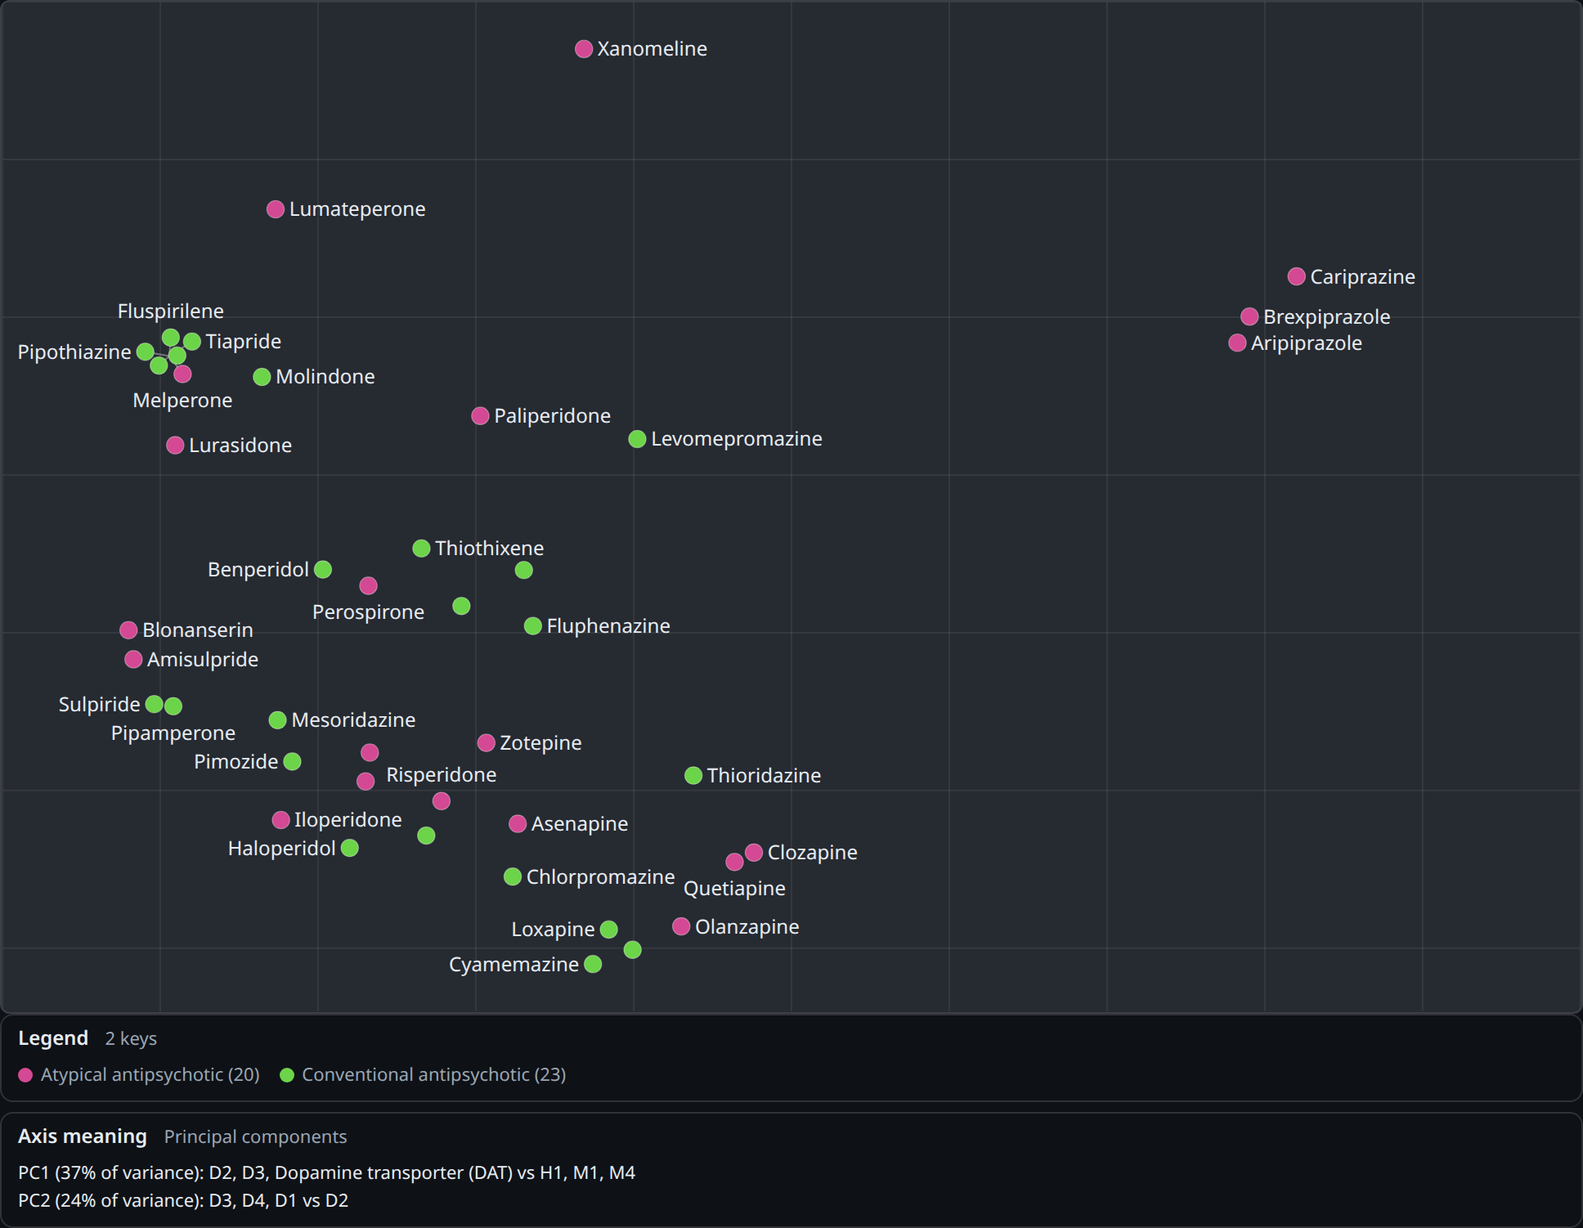
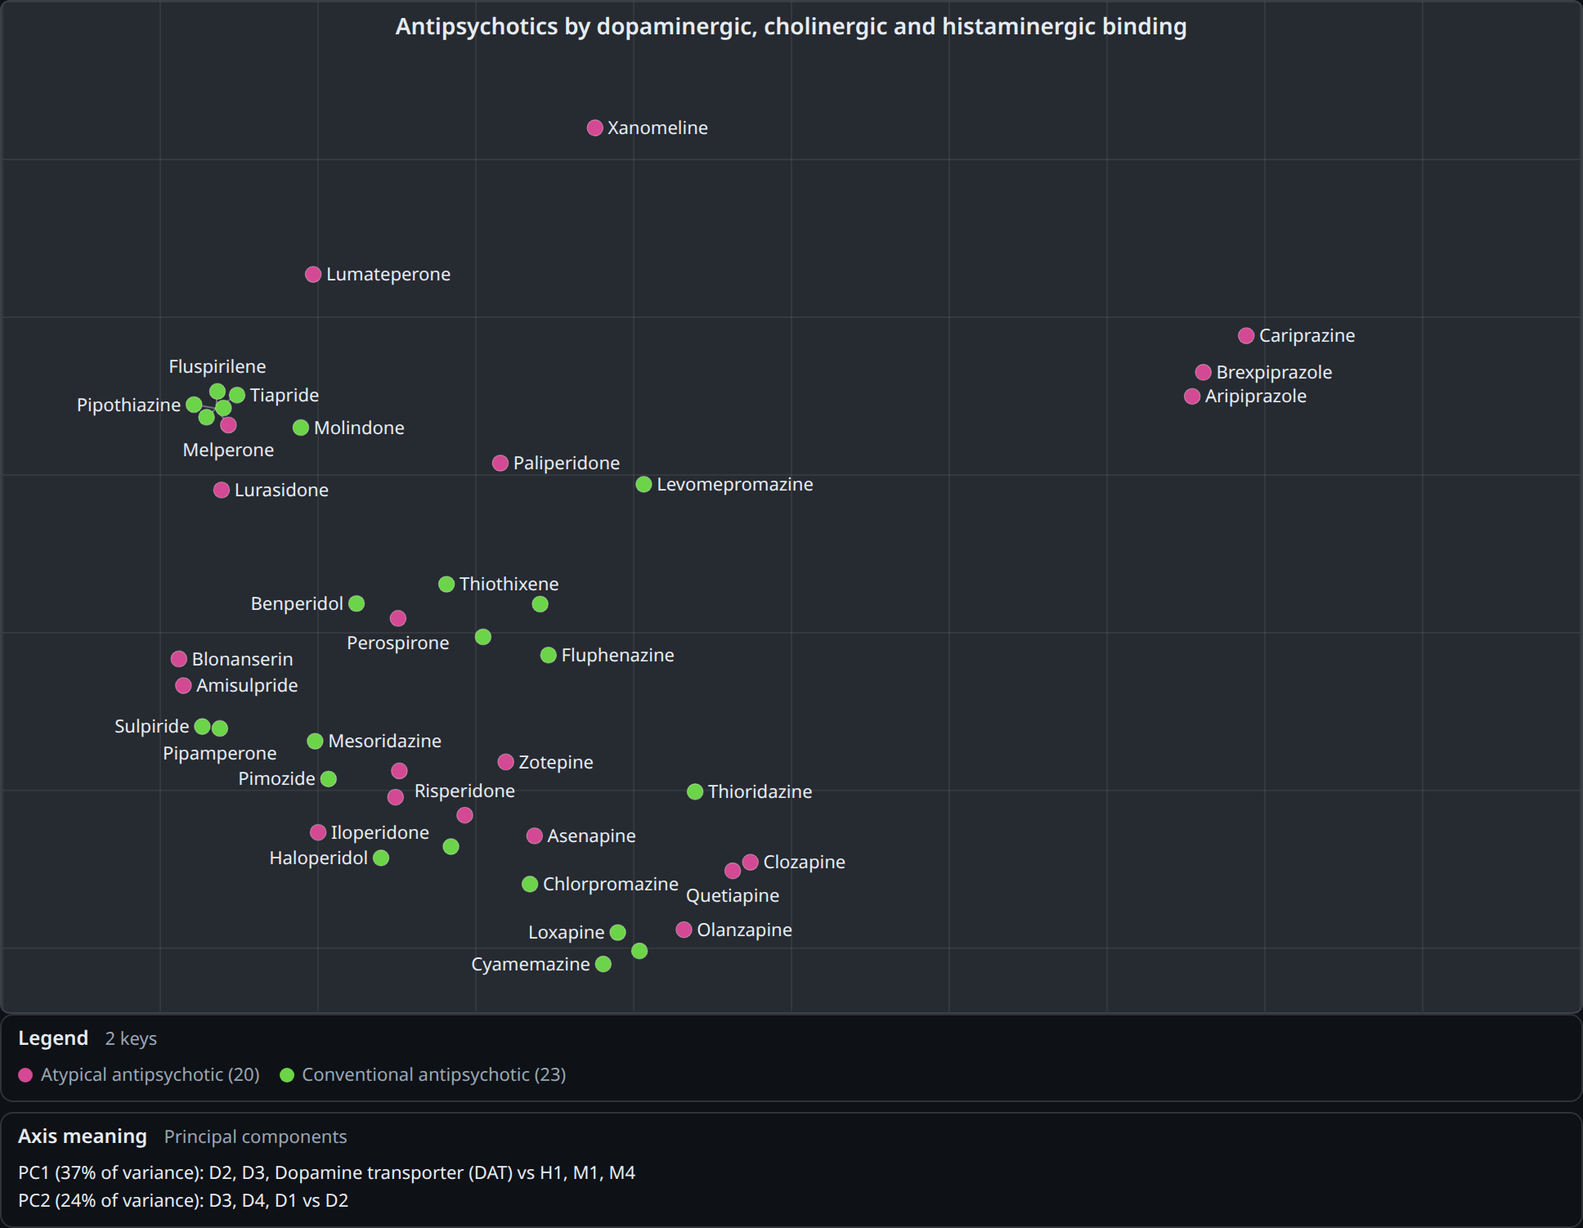
feat(drugs-map): a plot title derived from the view, the fit leaves room for it

diff --git a/public/js/drug-map/title.js b/public/js/drug-map/title.js
@@ -1,0 +1,86 @@
+// The drug map's plot title: one sentence saying what is on screen, derived from the
+// view (never authored per preset), e.g.
+//   {cats: {antipsychotic_atypical, antipsychotic_conventional}, only: [d1..d5, dat, h1],
+//    color: "nbn"}
+//   -> "Antipsychotics by dopaminergic and H1 binding, colored by nomenclature"
+// A class set that covers whole families is named by the family ("Antipsychotics"), a
+// target set that covers whole transmitter systems by the system ("dopaminergic"), so
+// the sentence stays short; past MAX_ITEMS it falls back to a count, still naming the
+// systems the targets belong to when those are few ("6 dopaminergic targets"). DOM-free (node
+// tests): the caller passes `t` and the groupings the controls already built.
+
+/** Past this many named classes / systems / targets, the title gives a count. */
+export const MAX_ITEMS = 5;
+
+// "Dopaminergic" -> "dopaminergic" mid-sentence, but "GABAergic" / "D2" stay as they are.
+const lowerFirst = (s) => (s.length > 1 && s[1] === s[1].toLowerCase() && s[1] !== s[1].toUpperCase()
+  ? s[0].toLowerCase() + s.slice(1) : s);
+
+/**
+ * Name a picked set by its whole groups first, then the leftover members one by one.
+ * @param {string[]} picked
+ * @param {[string, string[]][]} groups  [label, member keys]
+ * @param {(key: string) => string} nameOf
+ * @returns {string[]}
+ */
+export function nameSet(picked, groups, nameOf) {
+  const left = new Set(picked);
+  const out = [];
+  for (const [label, keys] of groups) {
+    if (keys.length && keys.every((k) => left.has(k))) {
+      out.push(label);
+      for (const k of keys) left.delete(k);
+    }
+  }
+  for (const k of picked) if (left.has(k)) out.push(nameOf(k));
+  return out;
+}
+
+/**
+ * @param {object} view  the drug map view (js/drug-map/model.js DEFAULT_VIEW shape)
+ * @param {{t: Function, families: [string, string[]][], systems: [string, string[]][],
+ *   catName: (key: string) => string, nameOf: (key: string) => string}} ctx
+ *   families: class families [label, class keys]; systems: the axes picker's groups for
+ *   `view.source` [label, feature keys]
+ * @returns {string}
+ */
+export function plotTitle(view, { t, families, systems, catName, nameOf }) {
+  const list = (items) => (items.length < 2 ? items.join("")
+    : `${items.slice(0, -1).join(", ")}${t("drugmap.ttl.and")}${items[items.length - 1]}`);
+
+  let subject = t("drugmap.ttl.all");
+  if (view.cats) {
+    const names = nameSet([...view.cats], families, catName);
+    subject = names.length > MAX_ITEMS ? t("drugmap.ttl.manyClasses", { n: view.cats.size })
+      : list(names.map((s, i) => (i ? lowerFirst(s) : s)));
+  }
+
+  const only = view.only;
+  let title;
+  if (only && !only.length) title = t("drugmap.ttl.none", { subject });
+  else if (only && only.length === 1) title = t("drugmap.ttl.byOne", { subject, x: nameOf(only[0]) });
+  else if (only && only.length === 2) {
+    title = t("drugmap.ttl.byTwo", { subject, x: nameOf(only[0]), y: nameOf(only[1]) });
+  } else if (only) {
+    // Only the keys the picker offers (a link may name a target no mapped drug binds,
+    // which has no display name and moves no point), like the Axes summary.
+    const known = only.filter((k) => systems.some(([, keys]) => keys.includes(k)));
+    const names = nameSet(known, systems, nameOf).map(lowerFirst);
+    // Too many to list: count them, naming their systems when those are few.
+    const owners = systems.filter(([, keys]) => known.some((k) => keys.includes(k))).map(([label]) => lowerFirst(label));
+    title = names.length <= MAX_ITEMS ? t("drugmap.ttl.byBinding", { subject, list: list(names) })
+      : owners.length <= 3 ? t("drugmap.ttl.byManySystemTargets", { subject, n: known.length, list: list(owners) })
+        : t("drugmap.ttl.byManyTargets", { subject, n: known.length });
+  } else {
+    title = t({ receptors: "drugmap.ttl.byProfile", tone: "drugmap.ttl.byTone", both: "drugmap.ttl.byBoth" }[view.source]
+      || "drugmap.ttl.byProfile", { subject });
+  }
+
+  if (view.color !== "category") {
+    title = t("drugmap.ttl.color", { title, mode: lowerFirst(t(`drugmap.color.${view.color}`)) });
+  }
+  if (view.years) {
+    title = t("drugmap.ttl.years", { title, from: view.years[0] || "…", to: view.years[1] < 9999 ? view.years[1] : "…" });
+  }
+  return title;
+}

diff --git a/public/js/drug-map/view.js b/public/js/drug-map/view.js
@@ -22,6 +22,7 @@ import { spreadPoints } from "./spread.js";
 import { button, el, foldBox, H, rotate, svgEl, W } from "./dom.js";
 import { wireGestures } from "./gestures.js";
 import { createFocus } from "./focus.js";
+import { plotTitle } from "./title.js";
 import { createControls } from "./controls.js";
 import { LIST_SEP } from "../url-state.js";
 import { viewerUrl } from "./site.js";
@@ -31,6 +32,8 @@ const PAD = 30;
 // Room on the right for the names of the rightmost points.
 const PAD_RIGHT = 130;
 const GRID_PX = 60;
+// Kept free under the plot title: about one name line, so a name above a dot clears it.
+const TITLE_GAP_PX = 30;
 // Transition length, and how long a re-render may run before the busy spinner shows
 // (a fast one never flashes it) and before the "suspiciously slow" hint joins it.
 const ANIM_MS = 450;
@@ -96,7 +99,10 @@ export function createDrugMap({ data, onChange }) {
   const busyText = el("p", "dm-busy-text", t("drugmap.slow"));
   busy.append(el("span", "dm-spinner"), busyText);
   busy.hidden = true;
-  plotWrap.append(svg, fsBtn, unrotate, busy, el("span", "dm-watermark",
+  // What is on screen, in one sentence (title.js), over the top of the plot; fitPoints
+  // keeps the points below it, however many lines it wraps to.
+  const plotTitleEl = el("div", "dm-plot-title");
+  plotWrap.append(svg, plotTitleEl, fsBtn, unrotate, busy, el("span", "dm-watermark",
     `${t("drugmap.watermark")} v${window.__APP_VERSION__} · ${location.host}`));
   const legendBox = foldBox(t("drugmap.sec.legend"));
   const legend = el("div", "dm-legend");
@@ -117,7 +123,12 @@ export function createDrugMap({ data, onChange }) {
   wireGestures(svg, () => cam, setCam, () => fitFrame());
   // Names are sized in screen px, so a resized window re-lays them out.
   if (typeof ResizeObserver === "function") {
-    new ResizeObserver(() => { if (placed.length) drawPoints(); }).observe(plotWrap);
+    new ResizeObserver(() => {
+      if (!placed.length) return;
+      // A narrower plot can wrap the title onto another line: refit below it.
+      if (titlePad() !== fitTop) fitPoints(placed);
+      drawPoints();
+    }).observe(plotWrap);
   }
 
   // ---- Render: filter, project, colour, then transition to the new placement. Async:
@@ -153,6 +164,10 @@ export function createDrugMap({ data, onChange }) {
       await yieldFrame();
       if (my !== gen) return;
       const next = shown.map((d) => ({ drug: d, ...points.get(d.id), color: colorOf.get(d.id) }));
+      plotTitleEl.textContent = plotTitle(view, {
+        t, families: controls.families, systems: controls.groupsFor(view.source),
+        catName: (c) => catLabels[c] || c, nameOf,
+      });
       fitPoints(next);
       const prev = placed;
       placed = next;
@@ -170,10 +185,20 @@ export function createDrugMap({ data, onChange }) {
   // Fit the data into the W x H frame, y up (a PCA has no preferred orientation, but a
   // plot reads with "more of PC2" upward), at ONE scale for both axes and centred, so a
   // distance on screen (and the grid's squares) means the same either way.
+  // The top band is left to the plot title: its rendered height, plus one name line (a
+  // name may sit above its dot, layout.js), turned into viewBox units (the svg
+  // letterboxes the W x H frame, hence the larger of the two ratios).
+  let fitTop = 0;
+  function titlePad() {
+    const w = svg.clientWidth, h = svg.clientHeight;
+    if (!w || !h || !plotTitleEl.textContent) return 0;
+    return Math.ceil((plotTitleEl.offsetHeight + TITLE_GAP_PX) * Math.max(W / w, H / h));
+  }
   function fitPoints(pts) {
     const xs = pts.map((p) => p.x), ys = pts.map((p) => p.y);
     const [x0, x1, y0, y1] = [Math.min(...xs), Math.max(...xs), Math.min(...ys), Math.max(...ys)];
-    const aw = W - PAD - PAD_RIGHT, ah = H - 2 * PAD;
+    fitTop = titlePad();
+    const aw = W - PAD - PAD_RIGHT, ah = H - 2 * PAD - fitTop;
     const s = Math.min(aw / (x1 - x0 || 1), ah / (y1 - y0 || 1));
     const ox = PAD + (aw - (x1 - x0) * s) / 2, oy = H - PAD - (ah - (y1 - y0) * s) / 2;
     for (const p of pts) {

diff --git a/public/js/i18n/fr.js b/public/js/i18n/fr.js
@@ -534,6 +534,20 @@ window.__I18N_MESSAGES__.fr = {
   "drugmap.axisDirect": "{axis} : {name}",
   "drugmap.watermark": "Carte des substances Neurarium",
   "drugmap.sec.presets": "Préréglages",
+  "drugmap.ttl.all": "Toutes les substances",
+  "drugmap.ttl.manyClasses": "{n} classes de substances",
+  "drugmap.ttl.and": " et ",
+  "drugmap.ttl.byBinding": "{subject} selon la liaison {list}",
+  "drugmap.ttl.byManyTargets": "{subject} selon la liaison à {n} cibles",
+  "drugmap.ttl.byManySystemTargets": "{subject} selon la liaison à {n} cibles ({list})",
+  "drugmap.ttl.byOne": "{subject} selon l'affinité {x}",
+  "drugmap.ttl.byTwo": "{subject} selon l'affinité {x} (x) contre {y} (y)",
+  "drugmap.ttl.byProfile": "{subject} selon le profil de liaison complet",
+  "drugmap.ttl.byTone": "{subject} selon le tonus net par neurotransmetteur",
+  "drugmap.ttl.byBoth": "{subject} selon la liaison aux récepteurs et le tonus net",
+  "drugmap.ttl.none": "{subject} : aucune cible choisie",
+  "drugmap.ttl.color": "{title}, couleur : {mode}",
+  "drugmap.ttl.years": "{title} (autorisation {from}–{to})",
   "drugmap.preset.ap_dopamine": "Antipsychotiques : dopamine",
   "drugmap.preset.ap_d2_5ht2a": "Antipsychotiques : D2 contre 5-HT2A",
   "drugmap.preset.ap_side": "Antipsychotiques : récepteurs des effets indésirables",

diff --git a/public/js/i18n/en.js b/public/js/i18n/en.js
@@ -536,6 +536,20 @@ window.__I18N_MESSAGES__.en = {
   "drugmap.axisDirect": "{axis}: {name}",
   "drugmap.watermark": "Neurarium drugs map",
   "drugmap.sec.presets": "Presets",
+  "drugmap.ttl.all": "All drugs",
+  "drugmap.ttl.manyClasses": "{n} drug classes",
+  "drugmap.ttl.and": " and ",
+  "drugmap.ttl.byBinding": "{subject} by {list} binding",
+  "drugmap.ttl.byManyTargets": "{subject} by binding to {n} targets",
+  "drugmap.ttl.byManySystemTargets": "{subject} by binding to {n} {list} targets",
+  "drugmap.ttl.byOne": "{subject} by {x} affinity",
+  "drugmap.ttl.byTwo": "{subject} by {x} affinity (x) vs {y} affinity (y)",
+  "drugmap.ttl.byProfile": "{subject} by whole receptor binding profile",
+  "drugmap.ttl.byTone": "{subject} by net transmitter tone",
+  "drugmap.ttl.byBoth": "{subject} by receptor binding and transmitter tone",
+  "drugmap.ttl.none": "{subject}: no target picked",
+  "drugmap.ttl.color": "{title}, colored by {mode}",
+  "drugmap.ttl.years": "{title} (approved {from}–{to})",
   "drugmap.preset.ap_dopamine": "Antipsychotics: dopamine",
   "drugmap.preset.ap_d2_5ht2a": "Antipsychotics: D2 vs 5-HT2A",
   "drugmap.preset.ap_side": "Antipsychotics: side-effect receptors",

diff --git a/public/js/drug-map/controls.js b/public/js/drug-map/controls.js
@@ -14,7 +14,10 @@ const { t } = window.__I18N__;
 /**
  * @param {{data: object, drugs: object[], nameOf: (key: string) => string,
  *   featureKeys: string[], getView: () => object, setView: (patch: object) => void}} o
- * @returns {{boxes: HTMLElement[], render: () => void}}
+ * @returns {{boxes: HTMLElement[], render: () => void,
+ *   groupsFor: (source: string) => [string, string[]][], families: [string, string[]][]}}
+ *   groupsFor / families: the axes picker's and the class list's groupings, which the
+ *   plot title (js/drug-map/title.js) names a picked set by
  */
 export function createControls({ data, drugs, nameOf, featureKeys, getView, setView }) {
   const catLabels = data.meta.drugCategoryLabels || {};
@@ -234,5 +237,8 @@ export function createControls({ data, drugs, nameOf, featureKeys, getView, setV
     ].filter(Boolean).join(" · "));
   }
 
-  return { boxes: [presets.box, inputs.box, filter.box, color.box, advanced.box], render };
+  return {
+    boxes: [presets.box, inputs.box, filter.box, color.box, advanced.box], render, groupsFor,
+    families: [...catGroups].map(([g, cats]) => [groupLabels[g] || g, cats]),
+  };
 }

diff --git a/public/css/drug-map.css b/public/css/drug-map.css
@@ -78,6 +78,22 @@
 .dm-focus-ring { fill: none; stroke: var(--text); }
 .dm-focus-label { fill: var(--text); font-weight: 600; stroke: var(--dm-plot-bg); paint-order: stroke; stroke-linejoin: round; }
 .dm-plot-wrap { position: relative; }
+/* view.js plot title (js/drug-map/title.js): centred over the plot, clear of the corner
+   buttons, wrapping as needed; the points are fitted below it. */
+.dm-plot-title {
+  position: absolute;
+  top: 8px;
+  left: 70px;
+  right: 70px;
+  text-align: center;
+  font-size: 14px;
+  font-weight: 600;
+  line-height: 1.3;
+  color: var(--text);
+  pointer-events: none;
+}
+.dm-plot-title:empty { display: none; }
+@media (max-width: 500px) { .dm-plot-title { left: 36px; right: 36px; font-size: 12px; } }
 /* Re-render under way: a spinner over the plot (shown only past a short delay), plus
    a "suspiciously slow" hint past a few seconds. */
 .dm-busy {

diff --git a/docs/DRUGS.md b/docs/DRUGS.md
@@ -289,7 +289,7 @@ A page of its own (`public/drugs-map.html`, beta, also served as drugsmap.olicor
 - **Feature subset** (`only`): picking one or two targets / systems plots them directly as raw axes (`directPoints`, no PCA, no normalization: 5-HT2A vs D2 reads as affinity vs affinity); three or more restrict the PCA to them. A drug with none of the picked features cannot be placed. Picked from a folded list grouped by transmitter system (`groupTargetsBySystem`, the Receptors & targets legend's order; net-tone features as a last group) with All / None buttons; a system heading picks its whole group; class chips share the gesture (`pickSet` + `pickOrDrop`: click narrows from all then toggles, shift-click or long-press drops).
 - **PCA** (`pca`): centred over the drugs on screen and **recomputed for every view** (power iteration with deflation on the p x p covariance, a few ms for ~300 drugs x ~150 targets), each axis sign-fixed so a small filter change does not mirror the map, both axes drawn at one scale over a grid so screen distances compare; the captions name each axis's strongest loadings both ways.
 - **Controls** (`js/drug-map/controls.js`), rounded boxes, each summary showing its current value: **Presets** (open; one button per `js/drug-map/presets.js` view, a patch over `DEFAULT_VIEW` that replaces the whole view; the button whose view is on screen lights), then four folded by default: **Inputs** (Type = feature source; Axes = a Filter button opening the grouped feature picker, with a search box (`chipSearch`, also over the class list), closed again when the Filter box opens), **Filter points by** (class chips grouped into families from `meta.drug_category_groups`, a family heading picking or dropping all its classes; shift-click or long-press drops; dots hide outside class colouring; plus the approval-year chip a decade heading's map link sets, and "show hidden"), **Color by** (class / nomenclature / year (ramp) / originator lab / major metabolic route (the `major` substrate enzymes, else the sole substrate enzyme, else unknown: most drugs are grey) / Ki coverage (every binding measured, or some); nomenclature reuses class colours by a greedy max-overlap matching, `matchClassColors`, so switching repaints few points), **Advanced** (names, spread overlapping dots, normalize, signed, measured Ki only, currently marketed only (a drug with a current US or FR `holders[]` row): all on by default). Below the plot, a folded Legend box and an "Axis meaning" box (the PC loadings or the picked axes).
-- **Plot** (`js/drug-map/view.js`): names (`js/drug-map/layout.js`: screen-px size following the median nearest-neighbour distance, greedy right/left/above/below placement never covering a dot or a name); touching dots nudged apart in screen px by at most one diameter with a faint leader line back to the true place, fading out as you zoom in (`js/drug-map/spread.js`, relaxed in id order so a re-render never reshuffles; coincident dots fan out on a golden-angle ring); the drug nearest the pointer (`js/drug-map/focus.js`, within 24 px, 32 px for a finger) shows its name over everything with a ring, so a dot whose name layout.js dropped is still readable: a mouse sees it on hover and a click opens that drug in the 3D viewer in a new browser tab (`#tabs=drug:<id>`), a touch selects it on the first tap and opens it on a second tap on the same dot; right-click or long-press hides it; wheel or pinch zoom, drag pan, two-finger twist or shift-wheel rotate (kept across filter changes, a "↻ N°" button or double-click resets), double-click refit (`js/drug-map/gestures.js`); a fullscreen button (browser fullscreen, else a fixed overlay); a watermark with the app version so a screenshot carries its origin. A re-render yields between steps behind a spinner (shown after 150 ms, plus a "suspiciously slow, maybe reload" hint after 5 s), then dots present before and after slide to their new place while the others fade in or out (skipped under `prefers-reduced-motion`). The whole view is in the URL (see docs/RUNNING.md).
+- **Plot** (`js/drug-map/view.js`): a title over the plot saying what is on screen, derived from the view, never authored (`js/drug-map/title.js`: whole class families and whole transmitter systems named by their group, a count past 5 items, plus colour mode and years; it wraps over several lines and the fit leaves its height plus one name line free so it never hides a dot); names (`js/drug-map/layout.js`: screen-px size following the median nearest-neighbour distance, greedy right/left/above/below placement never covering a dot or a name); touching dots nudged apart in screen px by at most one diameter with a faint leader line back to the true place, fading out as you zoom in (`js/drug-map/spread.js`, relaxed in id order so a re-render never reshuffles; coincident dots fan out on a golden-angle ring); the drug nearest the pointer (`js/drug-map/focus.js`, within 24 px, 32 px for a finger) shows its name over everything with a ring, so a dot whose name layout.js dropped is still readable: a mouse sees it on hover and a click opens that drug in the 3D viewer in a new browser tab (`#tabs=drug:<id>`), a touch selects it on the first tap and opens it on a second tap on the same dot; right-click or long-press hides it; wheel or pinch zoom, drag pan, two-finger twist or shift-wheel rotate (kept across filter changes, a "↻ N°" button or double-click resets), double-click refit (`js/drug-map/gestures.js`); a fullscreen button (browser fullscreen, else a fixed overlay); a watermark with the app version so a screenshot carries its origin. A re-render yields between steps behind a spinner (shown after 150 ms, plus a "suspiciously slow, maybe reload" hint after 5 s), then dots present before and after slide to their new place while the others fade in or out (skipped under `prefers-reduced-motion`). The whole view is in the URL (see docs/RUNNING.md).
 
 ## Drug metabolism
 

diff --git a/docs/ARCHITECTURE.md b/docs/ARCHITECTURE.md
@@ -481,7 +481,7 @@ Viewer (`public/`):
   `sections.js`, `addons.js`, `reference.js`, `format.js`, `dom.js`), plus `pk-interactions.js` (the drug panel's derived Pharmacokinetic interactions subsection, last in Metabolism) and `active-metabolites.js` (the Active metabolites subsection opening its Metabolism section).
 - `js/legend/`: the browse sections (`anatomy.js`, `targets.js`, `drugs.js` (+ DOM-free `drug-groups.js`), `browse.js` for
   enzymes + effects, `key.js`, shared `item.js`). `js/about/`: the popups (`modals.js`) and the
-  Sources & provenance tally (`sourcing.js`). `js/drug-map/`: the drugs map page (`drugs-map.html`, booted by `js/drugs-map-main.js` without three.js or the shape files; `model.js` DOM-free profiles + PCA + colours, `layout.js` DOM-free name sizing + placement, `spread.js` DOM-free overlap nudge, `dom.js` shared DOM helpers + the plot frame, `controls.js` the control boxes, `presets.js` the Presets box views (DOM-free), `gestures.js` zoom / pan / rotate, `focus.js` the pointed drug (nearest dot: name + ring on hover or first tap, open on click or second tap), `view.js` the map (render, transitions, plot), `site.js` the viewer <-> map links, which point at the canonical viewer when the page is served at `/` by the drugsmap.olicorne.org host). `js/search/query.js`: search text folding; `js/search/index.js`: `buildSearchItems`, the search box's row index (every searchable thing + the `data-search` controls, each with its pick action).
+  Sources & provenance tally (`sourcing.js`). `js/drug-map/`: the drugs map page (`drugs-map.html`, booted by `js/drugs-map-main.js` without three.js or the shape files; `model.js` DOM-free profiles + PCA + colours, `layout.js` DOM-free name sizing + placement, `spread.js` DOM-free overlap nudge, `dom.js` shared DOM helpers + the plot frame, `controls.js` the control boxes, `presets.js` the Presets box views (DOM-free), `gestures.js` zoom / pan / rotate, `focus.js` the pointed drug (nearest dot: name + ring on hover or first tap, open on click or second tap), `title.js` the plot title sentence derived from the view (DOM-free), `view.js` the map (render, transitions, plot), `site.js` the viewer <-> map links, which point at the canonical viewer when the page is served at `/` by the drugsmap.olicorne.org host). `js/search/query.js`: search text folding; `js/search/index.js`: `buildSearchItems`, the search box's row index (every searchable thing + the `data-search` controls, each with its pick action).
 - `js/util.js`: dependency-free shared helpers (`groupBy`, `stripSide`, `mirrorId`, `normName`).
 - `js/net.js`: `fetchOk(url, init, message)` / `fetchJson`, the one fetch + status check (each caller keeps its own error message).
 - `js/grades.js`: the provenance-grade orderings (`GRADE_RANK` stored, `DISPLAY_GRADE_ORDER` display incl. uncertain/unknown) + `strongestGrade`, `shownGrade`, `backed(counts)`.
